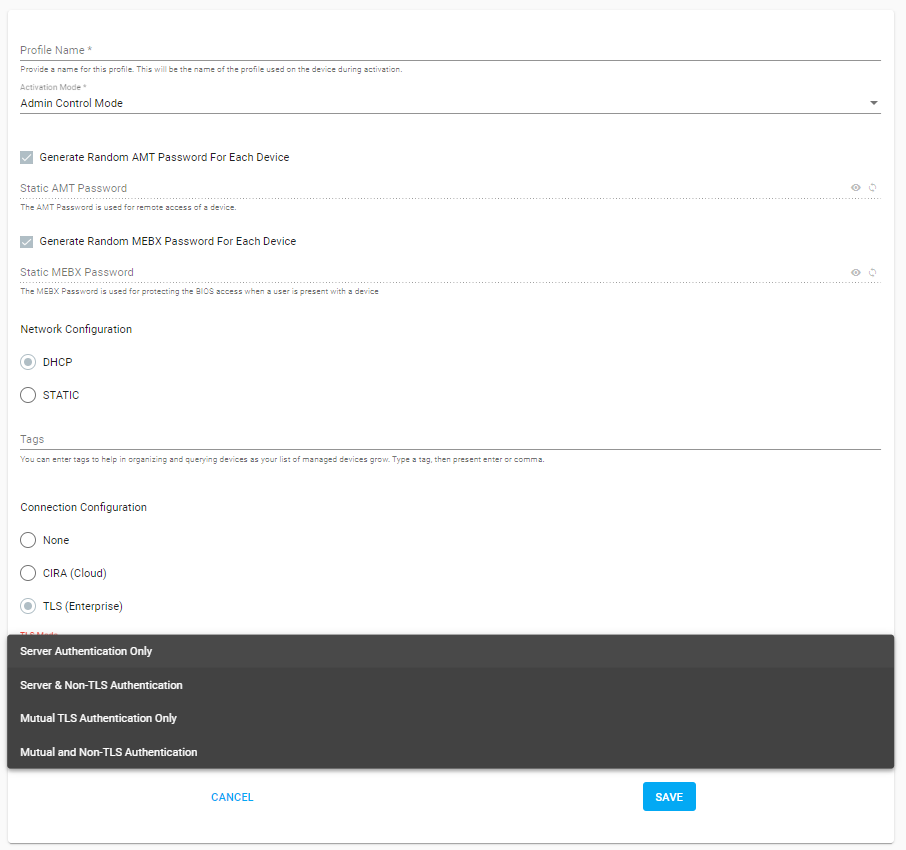
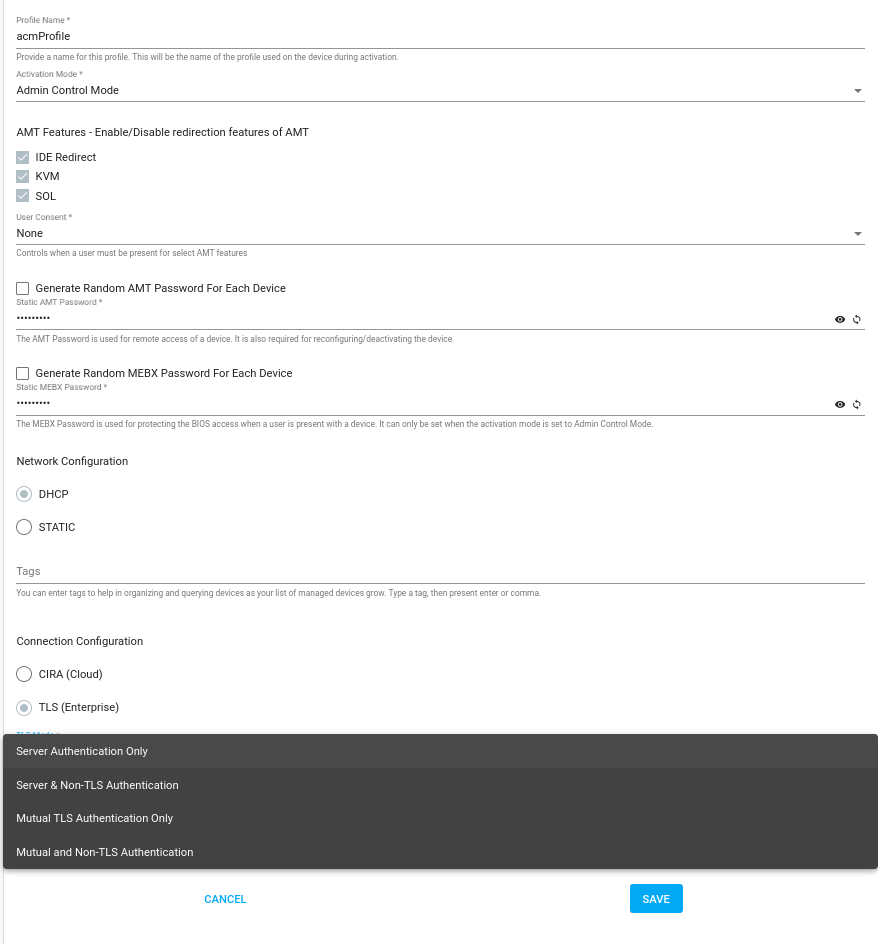
docs: offering redirection choices per profile (#228)
* docs: offering redirection choices per profile

* docs: offering redirection choices per profile

* docs: offering redirection choices per profile

* docs: offering redirection choices per profile

* docs: offering redirection choices per profile

diff --git a/docs/GetStarted/createProfileACM.md b/docs/GetStarted/createProfileACM.md
@@ -1,6 +1,13 @@
 --8<-- "References/abbreviations.md"
 
-Admin Control Mode (ACM) provides full access to Intel® Active Management Technology (Intel® AMT) functionality. User consent is optional for redirection features.
+Admin Control Mode (ACM) provides full access to Intel® Active Management Technology (Intel® AMT) functionality. User consent is optional for supported redirection features:
+
+- **IDE Redirection:** Share and mount images remotely with a specified storage media (e.g., USB flash drive). 
+- **Keyboard, Video, Mouse (KVM):** Control multiple devices with one keyboard, monitor, and mouse.
+- **Serial-over-LAN (SOL):** Manage devices with a command line interface (CLI) through SOL.
+
+!!! Important "IDE Redirection"
+    While AMT supports this feature, the toolkit doesn't natively support it. 
 
 <figure class="figure-image">
 <img src="..\..\assets\images\Profiles.png" alt="Figure 1: Set up configuration and profiles for N number of clients">
@@ -77,27 +84,34 @@ A Profile provides configuration information to the AMT Firmware during the acti
 
 4. Under **Activation**, select **Admin Control Mode** from the dropdown menu.
 
-5. Provide or generate a strong **AMT Password**. AMT will verify this password when receiving a command from a MPS server. This password is also required for device deactivation.
+5. Enable redirection features for the profile under **AMT Features - Enable/Disable features.** 
+
+    !!! info "Info - Customized Redirection"        
+        Associating these features with a profile enables administrators to opt into desired redirection.
+
+        The toolkit defaults to enabling all redirection features.
+
+6. Provide or generate a strong **AMT Password**. AMT will verify this password when receiving a command from a MPS server. This password is also required for device deactivation.
    
     !!! tip
         The two buttons next to the password input are for toggling visibility and generating a new random password. Please note that **if the Vault database is lost or corrupted, all credentials that aren't also stored somewhere else will be lost.** There will be no way to login. The administrator will have to clear the CMOS battery on the managed devices!
    
-6. Provide or generate a strong **MEBX Password**. This password can be used to access Intel® Manageability Engine BIOS Extensions (Intel® MEBX) on the AMT device.
+7. Provide or generate a strong **MEBX Password**. This password can be used to access Intel® Manageability Engine BIOS Extensions (Intel® MEBX) on the AMT device.
 
     !!! note
         By default both AMT Password and MEBX Password auto generation checkboxes are selected (checked). To enter static passwords, unselect the respective auto generation checkboxes.
 
-7. Leave DHCP as the default for **Network Configuration**.
+8. Leave DHCP as the default for **Network Configuration**.
 
-8. Optionally, add **Tags** to help in organizing and querying devices as your list of managed devices grow.
+9. Optionally, add **Tags** to help in organizing and querying devices as your list of managed devices grow.
 
-9. Select **CIRA(Cloud)** for Connection Configuration.
+10. Select **CIRA(Cloud)** for Connection Configuration.
 
-10. Select the name of the **CIRA Configuration** you created previously from the drop-down menu.
+11. Select the name of the **CIRA Configuration** you created previously from the drop-down menu.
 
-11. This express setup assumes the managed device (i.e. AMT device) is on a wired connection for quickest setup.  To learn more about a Wireless Setup, see the [Wireless Activation Tutorial](../Tutorials/createWiFiConfig.md).
+12. This express setup assumes the managed device (i.e. AMT device) is on a wired connection for quickest setup.  To learn more about a Wireless Setup, see the [Wireless Activation Tutorial](../Tutorials/createWiFiConfig.md).
 
-12. Click **Save.**
+13. Click **Save.**
 
     !!! example "Example ACM Profile"
         <figure class="figure-image">

diff --git a/docs/GetStarted/createProfileCCM.md b/docs/GetStarted/createProfileCCM.md
@@ -6,9 +6,12 @@ Client Control Mode (CCM) provides full access to features of Intel® Active Man
 
 These features require user consent:
 
-- Keyboard, Video, Mouse (KVM) Control
-- IDE-Redirection for sharing and mounting images remotely
-- Serial-over-LAN (SOL)
+- **IDE Redirection:** Share and mount images remotely with a specified storage media (e.g., USB flash drive).
+- **Keyboard, Video, Mouse (KVM):** Control multiple devices with one keyboard, monitor, and mouse.
+- **Serial-over-LAN (SOL):** Manage devices with a command line interface (CLI) through SOL.
+
+!!! Important "IDE Redirection"
+    While AMT supports this feature, the toolkit doesn't natively support it. 
 
 <figure class="figure-image">
 <img src="..\..\assets\images\Profiles.png" alt="Figure 1: Set up configuration and profiles for N number of clients">
@@ -38,24 +41,32 @@ Profiles provide configuration information to the firmware on platforms featurin
 
 4. Under **Activation Mode**, select **Client Control Mode** from the dropdown menu.
 
-5. Provide or generate a strong **AMT Password**. AMT will verify this password when receiving a command from a MPS server. This password is also required for device deactivation.
+5. Enable redirection features for the profile under **AMT Features - Enable/Disable features.** 
+
+    !!! info "Info - Customized Redirection"        
+        Associating these features with a profile enables administrators to opt into desired redirection.
+
+        The toolkit defaults to enabling all redirection features.
+
+
+6. Provide or generate a strong **AMT Password**. AMT will verify this password when receiving a command from a MPS server. This password is also required for device deactivation.
    
     !!! tip
         The two buttons next to the password input are for toggling visibility and generating a new random password. Please note that **if the Vault database is lost or corrupted, all credentials that aren't also stored somewhere else will be lost.** There will be no way to login. The administrator will have to clear the CMOS battery on the managed devices!
    
-6. The **MEBX Password** field is disabled, as the password for Intel® Manageability Engine BIOS Extensions (Intel® MEBX) cannot be set when activating in CCM due to the lower level of trust when compared to ACM.
+7. The **MEBX Password** field is disabled, as the password for Intel® Manageability Engine BIOS Extensions (Intel® MEBX) cannot be set when activating in CCM due to the lower level of trust when compared to ACM.
 
-7. Leave DHCP as the default for **Network Configuration**.
+8. Leave DHCP as the default for **Network Configuration**.
 
-8. Optionally, add **Tags** to help in organizing and querying devices as your list of managed devices grow.
+9. Optionally, add **Tags** to help in organizing and querying devices as your list of managed devices grow.
 
-9. Select **CIRA(Cloud)** for Connection Configuration.
+10. Select **CIRA(Cloud)** for Connection Configuration.
 
-10. Select the name of the **CIRA Configuration** you created previously from the drop-down menu.
+11. Select the name of the **CIRA Configuration** you created previously from the drop-down menu.
 
-11. This express setup assumes the managed device (i.e. AMT device) is on a wired connection for quickest setup.  To learn more about a Wireless Setup, see the [Wireless Activation Tutorial](../Tutorials/createWiFiConfig.md).
+12. This express setup assumes the managed device (i.e. AMT device) is on a wired connection for quickest setup.  To learn more about a Wireless Setup, see the [Wireless Activation Tutorial](../Tutorials/createWiFiConfig.md).
 
-12. Click **Save.**
+13. Click **Save.**
 
     !!! example "Example CCM Profile"
         <figure class="figure-image">
